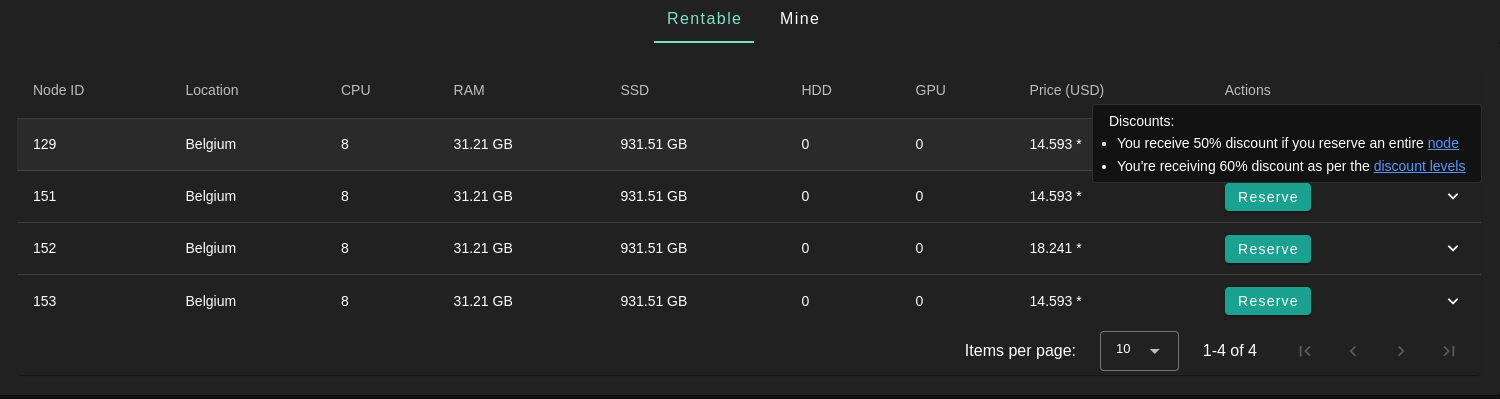
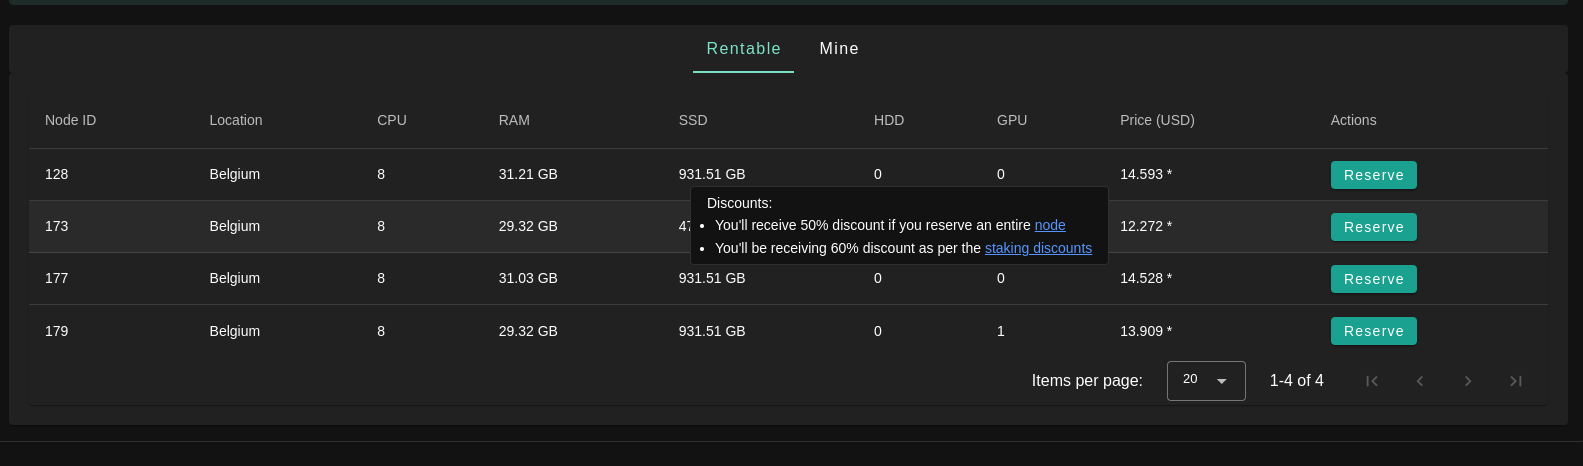
update dedicated machines page

diff --git a/src/dashboard/deploy/dedicated_machines.md b/src/dashboard/deploy/dedicated_machines.md
@@ -1,24 +1,23 @@
-<h1> Dedicated Nodes </h1>
+<h1> Dedicated Machines </h1>
 
 <h2> Table of Contents </h2>
 
-- [What is a Dedicated Node?](#what-is-a-dedicated-node)
+- [What is a Dedicated Machine?](#what-is-a-dedicated-machine)
 - [Description](#description)
 - [Billing \& Pricing](#billing--pricing)
 - [Discounts](#discounts)
 - [Usage](#usage)
 - [GPU Support](#gpu-support)
-  - [Filter and Reserve a GPU Node](#filter-and-reserve-a-gpu-node)
-    - [Filter Nodes](#filter-nodes)
-    - [Reserve a Node](#reserve-a-node)
-  - [GPU Support Links](#gpu-support-links)
+- [Filter and Reserve a GPU Node](#filter-and-reserve-a-gpu-node)
+  - [Filter Nodes](#filter-nodes)
+  - [Reserve a Node](#reserve-a-node)
+- [GPU Support Links](#gpu-support-links)
 
 ***
 
-## What is a Dedicated Node?
+## What is a Dedicated Machine?
 
-Dedicated nodes are 3Nodes that can be reserved and rented entirely by one user. The user can thus reserve an entire node and use it exclusively to deploy solutions. This feature is ideal for users who want to host heavy deployments with the benefits of high reliability and cost effectiveness.
-
+Dedicated machines are 3Nodes that can be reserved and rented entirely by one user. The user can thus reserve an entire node and use it exclusively to deploy solutions. This feature is ideal for users who want to host heavy deployments with the benefits of high reliability and cost effectiveness.
 
 ## Description
 
@@ -41,10 +40,9 @@ Dedicated nodes are 3Nodes that can be reserved and rented entirely by one user.
   - A second level discount up to 60% for balance level see [Discount Levels](../../wiki/cloudunits/pricing/staking_discount_levels.md)
 - Discounts are calculated every time the grid bills by checking the available TFT balance on the user wallet and seeing if it is sufficient to receive a discount. As a result, if the user balance drops below the treshold of a given discount, the deployment price increases.
 
-
 ## Usage
 
-- See list of all dedicated node on `Dedicated Nodes` tab on the portal.
+- See list of all dedicated node on `Dedicated Machines` tab on the portal.
 
     ![ ](../img/dedicated_machines.png)
 
@@ -75,7 +73,7 @@ To use a GPU on the TFGrid, users need to rent a dedicated node. Once they have 
 
 ## Filter and Reserve a GPU Node
 
-You can filter and reserve a GPU node using the [Dedicated Nodes section](https://dashboard.grid.tf/portal/account-nodes) of the **Dashboard**.
+You can filter and reserve a GPU node using the [Dedicated Machines section](https://dashboard.grid.tf/#/deploy/dedicated-nodes/) of the **Dashboard**.
 
 ### Filter Nodes
 
@@ -100,7 +98,7 @@ Feel free to explore the different possibilities!
 - Go Client and GPU
   - [GPU Support](../../go/grid3_go_gpu_support.md)
   - [VM with GPU](../../go/grid3_go_vm_with_gpu.md)
-- [TFGrid CLI and GPU](../../tfgridcmd/grid3_cli_vm.md#deploy-a-vm-with-gpu)
+- [TFGrid CLI and GPU](../../tfcmd/tfcmd_vm.md/#deploy-a-vm-with-gpu)
 - [Terraform and GPU](../../terraform/terraform_gpu_support.md)
 - [Full VM and GPU](../../dashboard/solutions/fullVm.md)
 - [Zero-OS API and GPU](../../internals/zos/manual/api.md#gpus)
